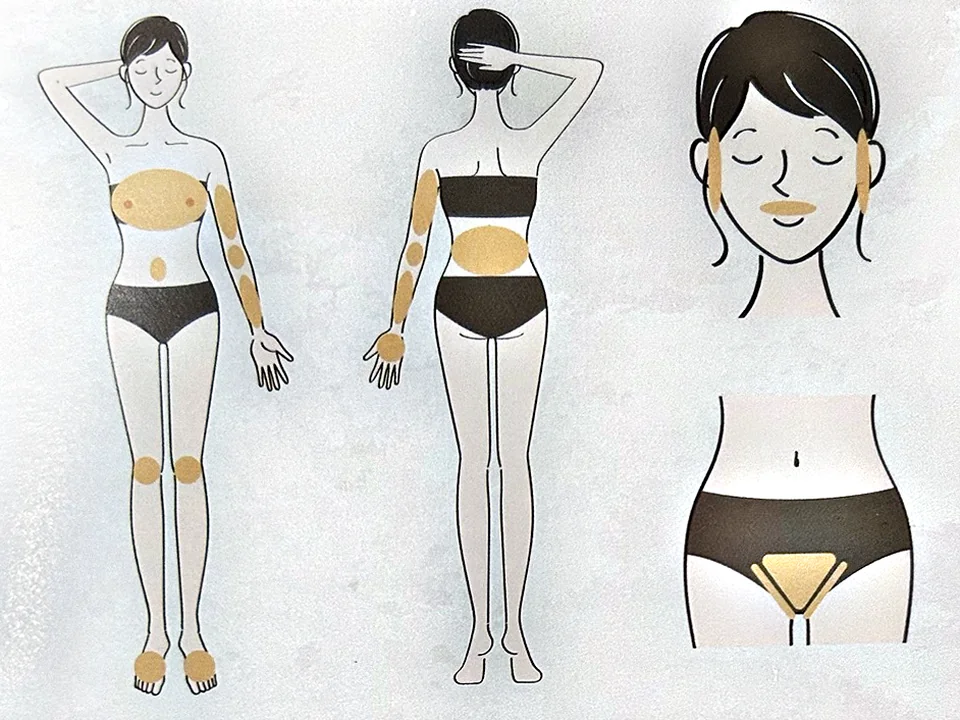
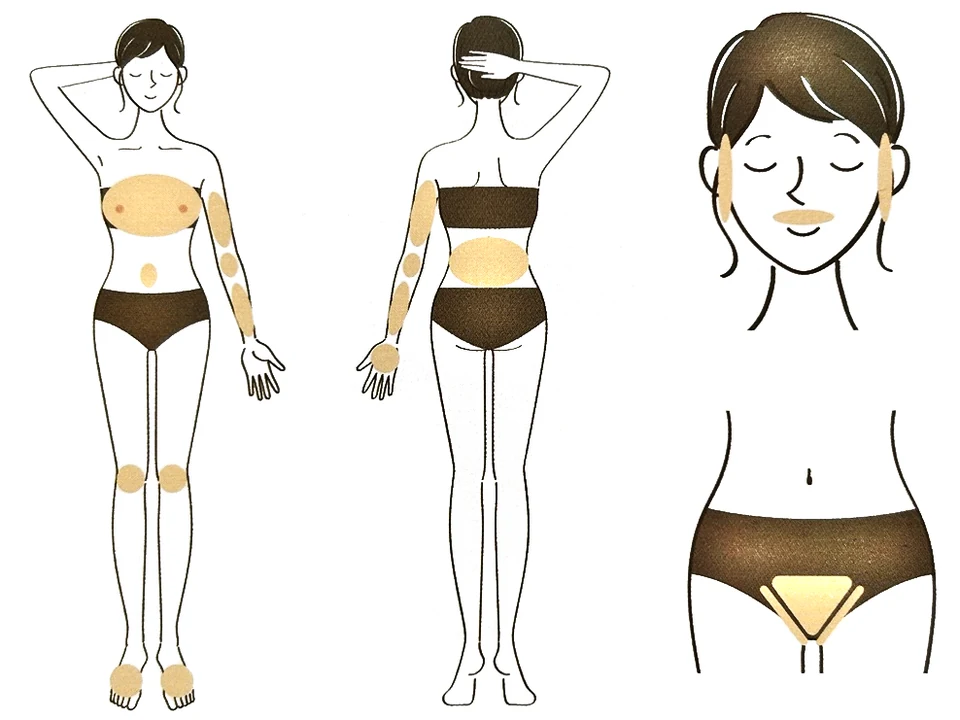
v2: エステ・全身脱毛の写真を撮り直したチラシから差し替え、部位のイラストの背景を真っ白に

diff --git a/v2/index.html b/v2/index.html
@@ -154,7 +154,7 @@
       <div class="esth">
         <div class="esth__item reveal">
           <figure class="esth__photo">
-            <img src="assets/esthetic-facial.webp" width="1200" height="900" loading="lazy" decoding="async"
+            <img src="assets/esthetic-facial.webp" width="960" height="720" loading="lazy" decoding="async"
                  alt="エステの施術台で、目を閉じてくつろぐ女性">
           </figure>
           <div class="price">
